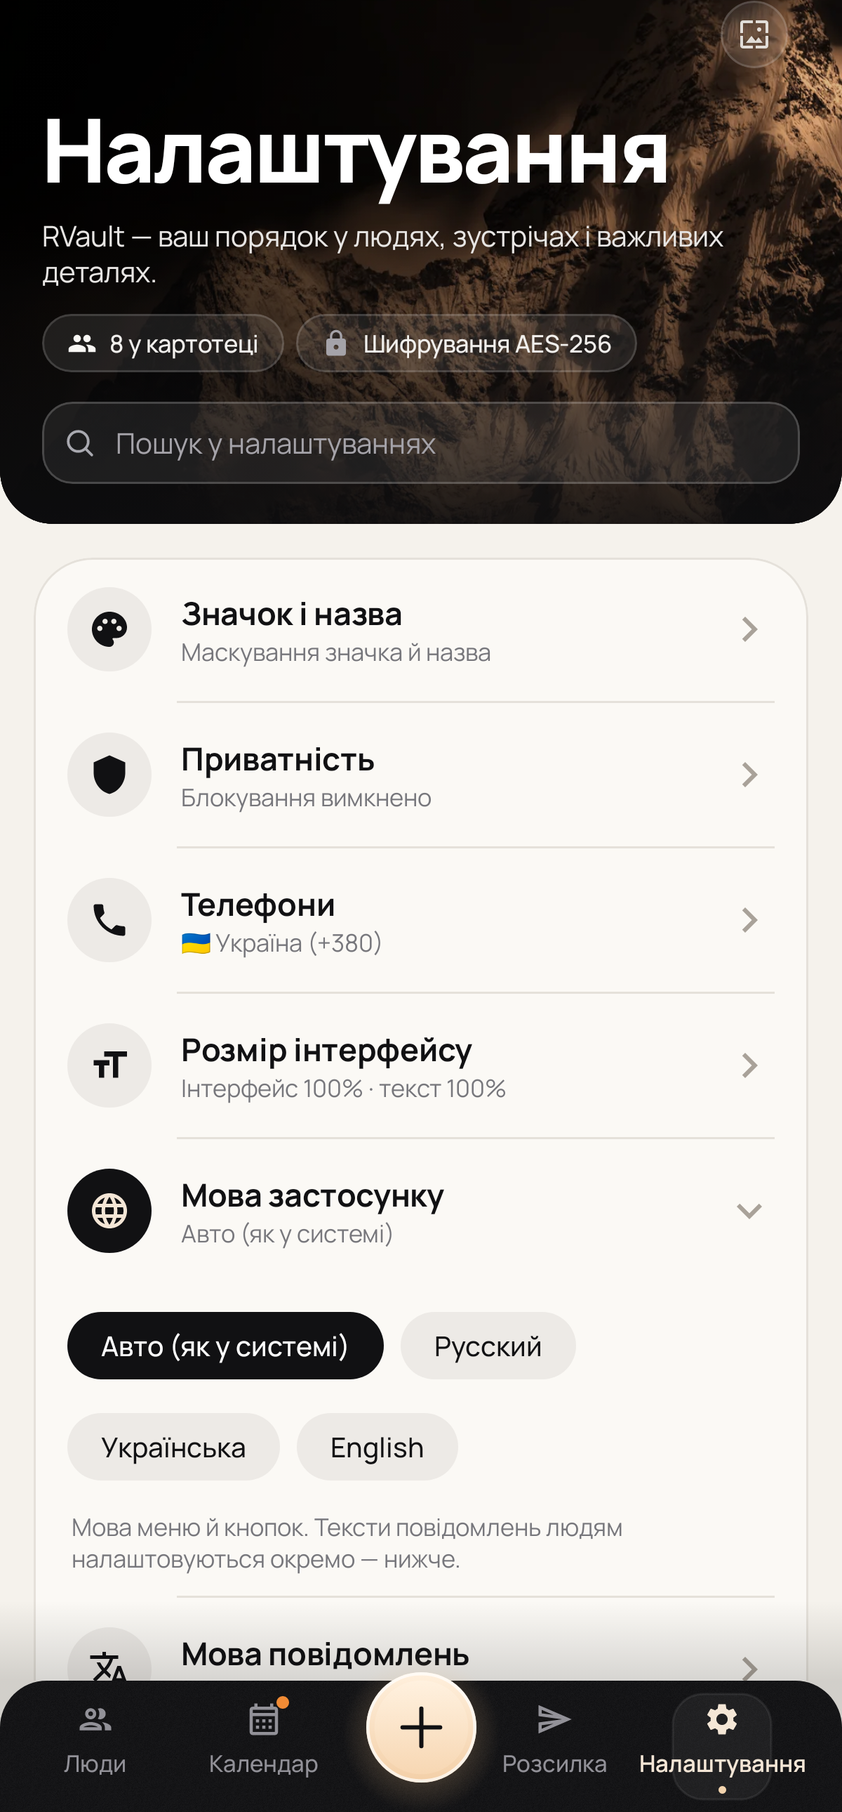
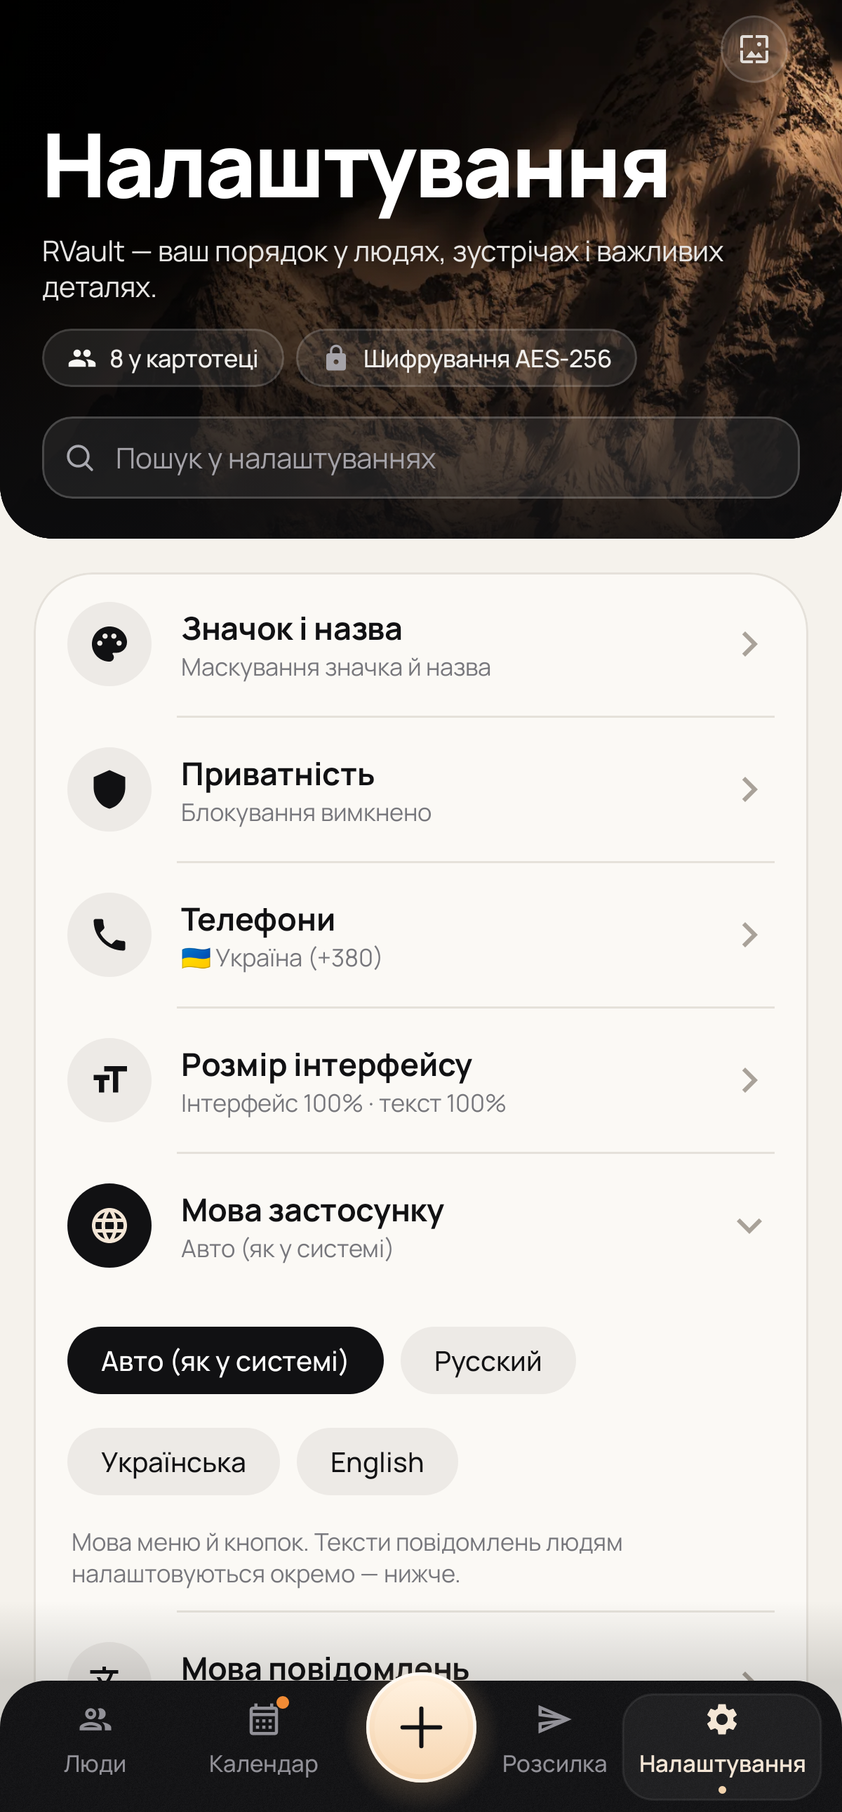
RVault 2.9.1: nav corners, header menu, localized names, fitted tab highlight
- Content extends under the nav bar's rounded corners, so corners show the screen
  (and the menu scrim) instead of bare background
- Header round avatar replaced by a glass menu button (groups, stats, settings,
  close vault); owner photo option removed
- Names in client messages follow the message language (Ілля -> Илья / Illia)
- Selected tab highlight fits the label width

Claude-Session: https://claude.ai/code/session_01HkrfmyeVh7sZjS3Avan5hw

diff --git a/app/src/main/java/com/kartoteka/app/data/NameLocalizer.kt b/app/src/main/java/com/kartoteka/app/data/NameLocalizer.kt
@@ -1,0 +1,70 @@
+package com.kartoteka.app.data
+
+/**
+ * Имя человека на языке сообщения: «Ілля» в русском тексте — «Илья», в английском — «Illia».
+ * Для украинского ↔ русского — словарь распространённых имён (их формы не выводятся по буквам);
+ * для английского — транслитерация (украинская официальная / русская по буквам). Незнакомое имя не трогаем.
+ */
+object NameLocalizer {
+    // Пары «украинская форма — русская форма».
+    private val pairs = listOf(
+        "Ілля" to "Илья", "Олександр" to "Александр", "Олексій" to "Алексей", "Дмитро" to "Дмитрий", "Сергій" to "Сергей",
+        "Андрій" to "Андрей", "Микола" to "Николай", "Михайло" to "Михаил", "Юрій" to "Юрий", "Іван" to "Иван",
+        "Петро" to "Пётр", "Павло" to "Павел", "Василь" to "Василий", "Віктор" to "Виктор", "Володимир" to "Владимир",
+        "Ігор" to "Игорь", "Євген" to "Евгений", "Артем" to "Артём", "Григорій" to "Григорий", "Федір" to "Фёдор",
+        "Костянтин" to "Константин", "Віталій" to "Виталий", "Анатолій" to "Анатолий", "Валерій" to "Валерий",
+        "Геннадій" to "Геннадий", "Станіслав" to "Станислав", "В'ячеслав" to "Вячеслав", "Кирило" to "Кирилл",
+        "Данило" to "Даниил", "Матвій" to "Матвей", "Тимофій" to "Тимофей", "Семен" to "Семён", "Леонід" to "Леонид",
+        "Аркадій" to "Аркадий", "Борис" to "Борис", "Едуард" to "Эдуард", "Ілларіон" to "Илларион", "Яків" to "Яков",
+        "Лев" to "Лев", "Нікіта" to "Никита", "Арсеній" to "Арсений", "Еміль" to "Эмиль", "Філіп" to "Филипп",
+        "Олена" to "Елена", "Ганна" to "Анна", "Марія" to "Мария", "Наталія" to "Наталья", "Тетяна" to "Татьяна",
+        "Ірина" to "Ирина", "Світлана" to "Светлана", "Юлія" to "Юлия", "Катерина" to "Екатерина", "Надія" to "Надежда",
+        "Віра" to "Вера", "Любов" to "Любовь", "Вікторія" to "Виктория", "Дарина" to "Дарья", "Софія" to "София",
+        "Анастасія" to "Анастасия", "Аліна" to "Алина", "Христина" to "Кристина", "Інна" to "Инна", "Ніна" to "Нина",
+        "Лідія" to "Лидия", "Євгенія" to "Евгения", "Олександра" to "Александра", "Поліна" to "Полина",
+        "Ксенія" to "Ксения", "Вероніка" to "Вероника", "Діана" to "Диана", "Єлизавета" to "Елизавета",
+        "Ангеліна" to "Ангелина", "Валерія" to "Валерия", "Таїсія" to "Таисия", "Уляна" to "Ульяна", "Яна" to "Яна",
+        "Оксана" to "Оксана", "Ольга" to "Ольга", "Марина" to "Марина", "Людмила" to "Людмила", "Галина" to "Галина",
+        "Тамара" to "Тамара", "Лариса" to "Лариса", "Алла" to "Алла", "Зоя" to "Зоя", "Валентина" to "Валентина",
+        "Максим" to "Максим", "Олег" to "Олег", "Роман" to "Роман", "Денис" to "Денис", "Антон" to "Антон",
+        "Ярослав" to "Ярослав", "Богдан" to "Богдан", "Тарас" to "Тарас", "Степан" to "Степан", "Вадим" to "Вадим",
+    )
+    private val ukToRu = pairs.associate { it.first.lowercase() to it.second }
+    private val ruToUk = pairs.associate { it.second.lowercase() to it.first }.toMutableMap().apply {
+        put("анна", "Анна"); put("наталия", "Наталія"); put("илья", "Ілля"); put("даниил", "Данило")
+    }
+
+    fun firstName(name: String, lang: MessageLang): String {
+        val n = name.trim()
+        if (n.isEmpty() || n.none { it in 'Ѐ'..'ӿ' }) return n
+        val key = n.lowercase().replace('’', '\'').replace('ʼ', '\'')
+        return when (lang) {
+            MessageLang.RU -> ukToRu[key] ?: n
+            MessageLang.UK -> ruToUk[key] ?: n
+            MessageLang.EN -> latin(ruToUk[key] ?: n)
+        }.let { keepCase(n, it) }
+    }
+
+    private fun keepCase(src: String, out: String) =
+        if (src.firstOrNull()?.isUpperCase() == true) out.replaceFirstChar { it.uppercase() } else out
+
+    /** Транслитерация в латиницу (украинская официальная + русские буквы). */
+    fun latin(s: String): String {
+        val sb = StringBuilder()
+        s.forEachIndexed { i, ch ->
+            val lower = ch.lowercase()[0]
+            val first = i == 0 || !s[i - 1].isLetter()
+            val r = when (lower) {
+                'а' -> "a"; 'б' -> "b"; 'в' -> "v"; 'г' -> "h"; 'ґ' -> "g"; 'д' -> "d"; 'е' -> "e"; 'є' -> if (first) "ye" else "ie"
+                'ж' -> "zh"; 'з' -> "z"; 'и' -> "y"; 'і' -> "i"; 'ї' -> if (first) "yi" else "i"; 'й' -> if (first) "y" else "i"
+                'к' -> "k"; 'л' -> "l"; 'м' -> "m"; 'н' -> "n"; 'о' -> "o"; 'п' -> "p"; 'р' -> "r"; 'с' -> "s"; 'т' -> "t"
+                'у' -> "u"; 'ф' -> "f"; 'х' -> "kh"; 'ц' -> "ts"; 'ч' -> "ch"; 'ш' -> "sh"; 'щ' -> "shch"
+                'ю' -> if (first) "yu" else "iu"; 'я' -> if (first) "ya" else "ia"; 'ь', '\'', '’', 'ʼ', 'ъ' -> ""
+                'ы' -> "y"; 'э' -> "e"; 'ё' -> "yo"
+                else -> lower.toString()
+            }
+            sb.append(if (ch.isUpperCase()) r.replaceFirstChar { it.uppercase() } else r)
+        }
+        return sb.toString()
+    }
+}

diff --git a/app/src/main/java/com/kartoteka/app/ui/components/MountainHeader.kt b/app/src/main/java/com/kartoteka/app/ui/components/MountainHeader.kt
@@ -34,6 +34,7 @@ import androidx.compose.foundation.shape.CircleShape
 import androidx.compose.material.icons.Icons
 import androidx.compose.material.icons.automirrored.outlined.Logout
 import androidx.compose.material.icons.outlined.AccountCircle
+import androidx.compose.material.icons.outlined.GridView
 import androidx.compose.material.icons.outlined.CalendarMonth
 import androidx.compose.material.icons.outlined.Insights
 import androidx.compose.material.icons.outlined.Redeem
@@ -171,7 +172,7 @@ fun MountainHeader(
             // Логотип · аватар · фильтр.
             Row(Modifier.fillMaxWidth().padding(start = pad, end = pad - u(10), top = u(PeopleDims.ControlsTop)), verticalAlignment = Alignment.CenterVertically) {
                 HeaderLogo(com.kartoteka.app.AppIcons.title(context, title), intro, Modifier.weight(1f))
-                HeroBackgroundButton("people", Modifier.padding(end = u(18)))
+                HeroBackgroundButton("people", Modifier.padding(end = 8.dp))
                 OwnerAvatar(onGroups, onStats, onSettings)
             }
             // Заголовок и счётчик.
@@ -303,36 +304,22 @@ private fun OwnerAvatar(onGroups: () -> Unit, onStats: () -> Unit, onSettings: (
     val context = LocalContext.current
     val app = app()
     val scope = rememberCoroutineScope()
-    val photo by app.settings.ownerPhoto.value.collectAsState()
     var menu by remember { mutableStateOf(false) }
-    val picker = rememberPhotoPicker(multiple = false) { uris ->
-        uris.firstOrNull()?.let { uri ->
-            scope.launch {
-                val path = withContext(Dispatchers.IO) { app.repository.photos.import(uri) }
-                if (path != null) app.settings.ownerPhoto.set(path)
-            }
-        }
-    }
     val src = remember { MutableInteractionSource() }
     Box {
+        // Меню разделов — такая же стеклянная кнопка, как «фон шапки» рядом.
         Box(
             Modifier.size(maxOf(u(PeopleDims.FilterButton), 40.dp)).clickable(src, indication = null) { menu = true }
-                .semantics { contentDescription = t("Профиль"); role = Role.Button },
+                .semantics { contentDescription = t("Меню"); role = Role.Button },
             contentAlignment = Alignment.Center,
         ) {
             Box(
-                Modifier.size(u(PeopleDims.Avatar)).graphicsLayer { val s = if (menu) 1.06f else 1f; scaleX = s; scaleY = s }
-                    .clip(CircleShape).border(1.dp, Color.White.copy(alpha = 0.7f), CircleShape),
-            ) {
-                if (photo.isNotBlank()) {
-                    AsyncImage(File(photo), null, contentScale = ContentScale.Crop, modifier = Modifier.fillMaxSize())
-                } else {
-                    PearlSphere(Modifier.fillMaxSize())
-                }
-            }
+                Modifier.size(32.dp).graphicsLayer { val s = if (menu) 1.06f else 1f; scaleX = s; scaleY = s }
+                    .clip(CircleShape).background(RvColors.ChipBg).border(1.dp, RvColors.ChipBorder, CircleShape),
+                contentAlignment = Alignment.Center,
+            ) { Icon(Icons.Outlined.GridView, null, tint = RvColors.TextOnDark.copy(alpha = 0.85f), modifier = Modifier.size(16.dp)) }
         }
         DropdownMenu(expanded = menu, onDismissRequest = { menu = false }, offset = androidx.compose.ui.unit.DpOffset(0.dp, 6.dp)) {
-            DropdownMenuItem(text = { Text(t("Своё фото")) }, leadingIcon = { Icon(Icons.Outlined.AccountCircle, null) }, onClick = { menu = false; picker.gallery() })
             DropdownMenuItem(text = { Text(t("Группы")) }, leadingIcon = { Icon(Icons.Outlined.Workspaces, null) }, onClick = { menu = false; onGroups() })
             DropdownMenuItem(text = { Text(t("Статистика")) }, leadingIcon = { Icon(Icons.Outlined.Insights, null) }, onClick = { menu = false; onStats() })
             DropdownMenuItem(text = { Text(t("Настройки")) }, leadingIcon = { Icon(Icons.Outlined.Settings, null) }, onClick = { menu = false; onSettings() })

diff --git a/app/src/main/java/com/kartoteka/app/ui/components/CustomBottomNavigation.kt b/app/src/main/java/com/kartoteka/app/ui/components/CustomBottomNavigation.kt
@@ -27,6 +27,8 @@ import androidx.compose.runtime.getValue
 import androidx.compose.runtime.remember
 import androidx.compose.ui.Alignment
 import androidx.compose.ui.Modifier
+import androidx.compose.runtime.setValue
+import androidx.compose.ui.layout.onSizeChanged
 import androidx.compose.ui.platform.LocalDensity
 import androidx.compose.ui.text.rememberTextMeasurer
 import androidx.compose.ui.draw.clip
@@ -157,23 +159,29 @@ private fun NavCell(item: NavItem, sel: Boolean, modifier: Modifier, labelSize: 
     val pill by animateFloatAsState(if (sel) 1f else 0f, tween(AnimationTokens.TabSwitch, easing = AnimationTokens.Enter), label = "navPill")
     val dot by animateFloatAsState(if (sel) 1f else 0f, tween(AnimationTokens.TabSwitch, easing = AnimationTokens.Move), label = "navDot")
     val pillW = u(PeopleDims.NavPillW); val pillH = u(PeopleDims.NavPillH); val radius = u(PeopleDims.NavPillRadius)
+    var cellW by remember { androidx.compose.runtime.mutableFloatStateOf(0f) }
     Box(
-        modifier.height(pillH)
+        modifier.height(pillH).onSizeChanged { cellW = it.width.toFloat() }
             .semantics { role = Role.Tab; this.selected = sel }
             .clickable(remember { MutableInteractionSource() }, indication = null, onClick = onClick),
         contentAlignment = Alignment.Center,
     ) {
-        // Подложка активной вкладки 84×90, #FFFFFF0D, обводка #FFFFFF12.
-        Box(
-            Modifier.size(pillW, pillH).drawBehind {
+        // Подложка активной вкладки по ширине подписи (не уже 84, не шире ячейки), #FFFFFF0D, обводка #FFFFFF12.
+        val padH = 14.dp
+        Column(
+            Modifier.drawBehind {
                 if (pill > 0f) {
+                    val w = (size.width + padH.toPx() * 2).coerceAtLeast(minOf(pillW.toPx(), cellW)).coerceAtMost(cellW)
+                    val h = pillH.toPx()
+                    val tl = Offset((size.width - w) / 2, (size.height - h) / 2)
                     val cr = CornerRadius(radius.toPx())
-                    drawRoundRect(RvColors.NavPill.copy(alpha = RvColors.NavPill.alpha * pill), cornerRadius = cr)
-                    drawRoundRect(RvColors.NavPillBorder.copy(alpha = RvColors.NavPillBorder.alpha * pill), cornerRadius = cr, style = Stroke(1.dp.toPx()))
+                    val sz = androidx.compose.ui.geometry.Size(w, h)
+                    drawRoundRect(RvColors.NavPill.copy(alpha = RvColors.NavPill.alpha * pill), topLeft = tl, size = sz, cornerRadius = cr)
+                    drawRoundRect(RvColors.NavPillBorder.copy(alpha = RvColors.NavPillBorder.alpha * pill), topLeft = tl, size = sz, cornerRadius = cr, style = Stroke(1.dp.toPx()))
                 }
-            }
-        )
-        Column(horizontalAlignment = Alignment.CenterHorizontally, verticalArrangement = Arrangement.Center) {
+            },
+            horizontalAlignment = Alignment.CenterHorizontally, verticalArrangement = Arrangement.Center,
+        ) {
             Box {
                 Icon(if (sel) item.selectedIcon else item.icon, null, tint = fg, modifier = Modifier.size(maxOf(u(PeopleDims.NavIcon), 18.dp)))
                 if (item.badge) {

diff --git a/app/src/main/java/com/kartoteka/app/ui/Root.kt b/app/src/main/java/com/kartoteka/app/ui/Root.kt
@@ -187,7 +187,10 @@ fun KartotekaRoot(
         },
         contentWindowInsets = androidx.compose.foundation.layout.WindowInsets(0),
     ) { padding ->
-        Box(Modifier.padding(bottom = padding.calculateBottomPadding())) {
+        // Содержимое заходит под скруглённые верхние углы панели: в углах видно сам экран (и затемнение меню),
+        // а не пустой фон — без «треугольников» над навигацией.
+        val navCorner = com.kartoteka.app.ui.theme.u(com.kartoteka.app.ui.theme.PeopleDims.NavRadius)
+        Box(Modifier.padding(bottom = (padding.calculateBottomPadding() - navCorner).coerceAtLeast(0.dp))) {
         androidx.compose.animation.SharedTransitionLayout {
         androidx.compose.runtime.CompositionLocalProvider(com.kartoteka.app.ui.components.LocalSharedScope provides this) {
         NavHost(
@@ -366,7 +369,8 @@ fun KartotekaRoot(
         }
         AddActionRadialMenu(
             open = quick,
-            anchorBelow = fabAnchorBelowBarTop(),
+            // Область содержимого теперь заходит под углы панели — сдвигаем якорь меню на радиус угла.
+            anchorBelow = fabAnchorBelowBarTop() - com.kartoteka.app.ui.theme.u(com.kartoteka.app.ui.theme.PeopleDims.NavRadius),
             actions = listOf(
                 QuickAction(t("Добавить человека"), QuickIcons.person) { nav.navigate(Routes.edit()) },
                 QuickAction(t("Создать запись"), QuickIcons.appointment) {

diff --git a/app/src/main/java/com/kartoteka/app/data/ArchiveLogic.kt b/app/src/main/java/com/kartoteka/app/data/ArchiveLogic.kt
@@ -104,11 +104,12 @@ object ArchiveLogic {
     ): String =
         MessageLang.canonicalize(template)
             .replace("{приветствие}", lang.timeGreeting(now))
-            .replace("{имя}", p.firstName.ifBlank { p.displayName })
+            // Имя — в форме языка сообщения: «Ілля» → «Илья» по-русски, «Illia» по-английски.
+            .replace("{имя}", NameLocalizer.firstName(p.firstName, lang).ifBlank { p.displayName })
             .replace("{отчество}", p.middleName)
             .replace("{фамилия}", p.lastName)
-            .replace("{имя_отчество}", listOf(p.firstName, p.middleName).filter { it.isNotBlank() }.joinToString(" ").ifBlank { p.displayName })
-            .replace("{прозвище}", p.nickname.ifBlank { p.firstName })
+            .replace("{имя_отчество}", listOf(NameLocalizer.firstName(p.firstName, lang), p.middleName).filter { it.isNotBlank() }.joinToString(" ").ifBlank { p.displayName })
+            .replace("{прозвище}", p.nickname.ifBlank { NameLocalizer.firstName(p.firstName, lang) })
 
     fun formatBirthday(p: Person): String? {
         val d = p.birthDay ?: return null

diff --git a/app/src/test/java/com/kartoteka/app/screens/UkScreensTest.kt b/app/src/test/java/com/kartoteka/app/screens/UkScreensTest.kt
@@ -178,7 +178,7 @@ class UkScreensTest {
         compose.onNodeWithContentDescription(com.kartoteka.app.i18n.t("Назад")).performClick()
         settle()
 
-        compose.onNodeWithContentDescription(com.kartoteka.app.i18n.t("Профиль")).performClick()
+        compose.onNodeWithContentDescription(com.kartoteka.app.i18n.t("Меню")).performClick()
         settle()
         compose.onNodeWithText(com.kartoteka.app.i18n.t("Группы")).performClick()
         settle()
@@ -223,7 +223,7 @@ class UkScreensTest {
         shot("14_map")
         compose.onNodeWithContentDescription(com.kartoteka.app.i18n.t("Назад")).performClick()
         settle()
-        compose.onNodeWithContentDescription(com.kartoteka.app.i18n.t("Профиль")).performClick()
+        compose.onNodeWithContentDescription(com.kartoteka.app.i18n.t("Меню")).performClick()
         settle()
         compose.onNodeWithText(com.kartoteka.app.i18n.t("Статистика")).performClick()
         settle()

diff --git a/app/src/test/java/com/kartoteka/app/data/NameLocalizerTest.kt b/app/src/test/java/com/kartoteka/app/data/NameLocalizerTest.kt
@@ -1,0 +1,17 @@
+package com.kartoteka.app.data
+
+import org.junit.Assert.assertEquals
+import org.junit.Test
+
+class NameLocalizerTest {
+    @Test fun namesFollowMessageLanguage() {
+        assertEquals("Илья", NameLocalizer.firstName("Ілля", MessageLang.RU))
+        assertEquals("Ілля", NameLocalizer.firstName("Илья", MessageLang.UK))
+        assertEquals("Illia", NameLocalizer.firstName("Ілля", MessageLang.EN))
+        assertEquals("Oleksandr", NameLocalizer.firstName("Александр", MessageLang.EN))
+        assertEquals("Елена", NameLocalizer.firstName("Олена", MessageLang.RU))
+        assertEquals("Максим", NameLocalizer.firstName("Максим", MessageLang.UK))
+        assertEquals("Zhanna", NameLocalizer.firstName("Жанна", MessageLang.EN))
+        assertEquals("John", NameLocalizer.firstName("John", MessageLang.RU))
+    }
+}

diff --git a/app/src/test/java/com/kartoteka/app/screens/ScreensTest.kt b/app/src/test/java/com/kartoteka/app/screens/ScreensTest.kt
@@ -178,7 +178,7 @@ class ScreensTest {
         compose.onNodeWithContentDescription("Назад").performClick()
         settle()
 
-        compose.onNodeWithContentDescription("Профиль").performClick()
+        compose.onNodeWithContentDescription("Меню").performClick()
         settle()
         compose.onNodeWithText("Группы").performClick()
         settle()
@@ -223,7 +223,7 @@ class ScreensTest {
         shot("14_map")
         compose.onNodeWithContentDescription("Назад").performClick()
         settle()
-        compose.onNodeWithContentDescription("Профиль").performClick()
+        compose.onNodeWithContentDescription("Меню").performClick()
         settle()
         compose.onNodeWithText("Статистика").performClick()
         settle()

diff --git a/app/src/test/java/com/kartoteka/app/data/FeaturesV2Test.kt b/app/src/test/java/com/kartoteka/app/data/FeaturesV2Test.kt
@@ -104,7 +104,7 @@ class AppointmentLogicTest {
     @Test fun englishDates() {
         val evening = LocalDateTime.of(2026, 10, 1, 19, 0)
         val text = AppointmentLogic.fill(MessageLang.EN.template(TemplateKind.CONFIRM), appt, anna, MessageLang.EN, evening)
-        assertEquals("Good evening, Анна! Your appointment is confirmed: Friday, October 2 at 14:30.\nСтрижка", text)
+        assertEquals("Good evening, Anna! Your appointment is confirmed: Friday, October 2 at 14:30.\nСтрижка", text)
     }
 
     @Test fun greetingDependsOnTimeOfSending() {
